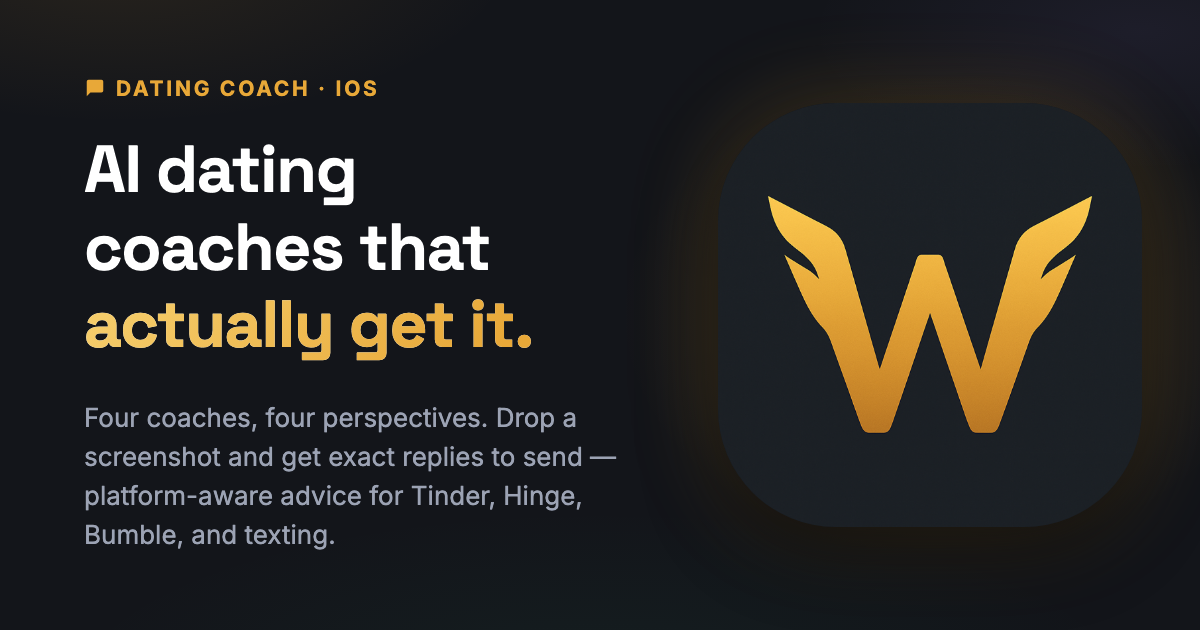
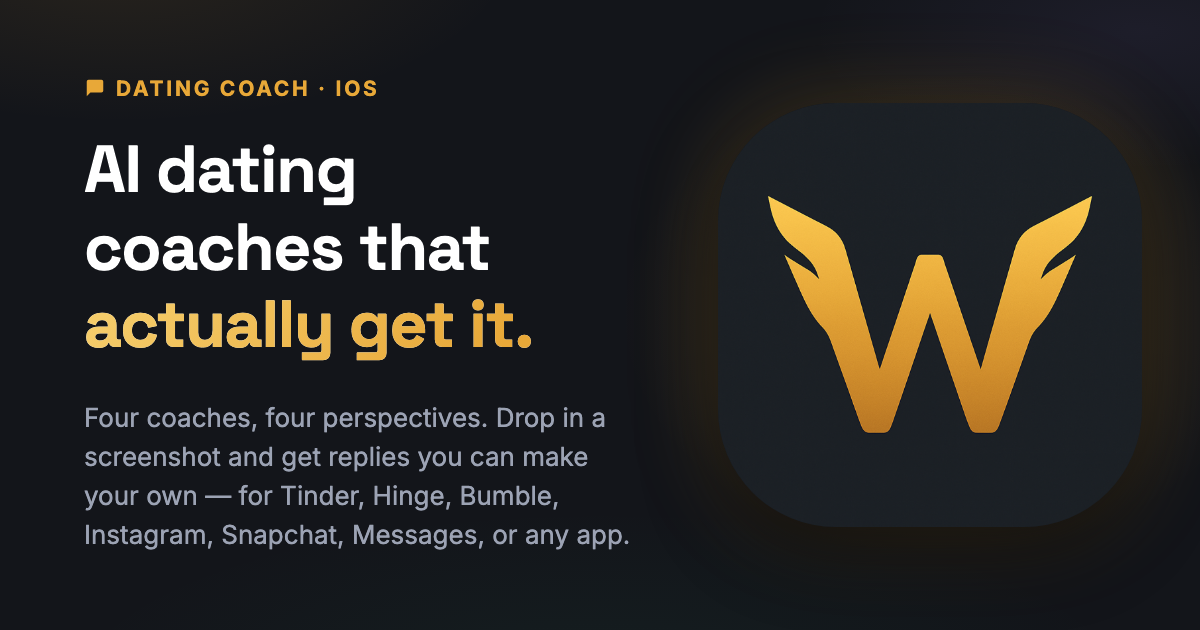
Wingmate page catches up with 1.4.2 and Bumble's new first-message rule
Bumble ended women-message-first on 2026-08-11 and retired Opening Moves;
its help centre now says each person gets one opening message within 72h.
The feature card and platform grid still said "she messages first".

1.4.2 coaches for Tinder, Hinge, Bumble, Instagram, Snapchat, Messages and
Any app (Platform.swift at 8aeed8e), so the lede, meta/JSON-LD descriptions,
platform grid, Opener Vault copy, studio card and og card name all seven.
The og card is re-rendered by tools/build_app_og.py and bumped to ?v=20260913a.

Copy that sold the retired Interest Level meter or read minds is rewritten
from the shipped coach descriptions (Coach.swift) and the live listing;
gendered marketing lines are de-gendered; the FAQ quotes the listing's
exact allowance (3 a day free, 60 with Plus) instead of "every feature is
free"; Auto coach is described as the listing describes it.

Changed region(s): [[0.0617, 0.6333, 0.5242, 0.8746]]

diff --git a/wingmate/index.html b/wingmate/index.html
@@ -5,8 +5,8 @@
   <meta name="viewport" content="width=device-width, initial-scale=1.0">
   <meta name="color-scheme" content="dark">
   <meta name="theme-color" content="#13151A">
-  <title>Wingmate — AI dating coach for Tinder, Hinge &amp; Bumble</title>
-  <meta name="description" content="Four AI dating coaches with real perspectives. Screenshot analysis and platform-aware coaching for Tinder, Hinge, Bumble, Instagram, and texting.">
+  <title>Wingmate — AI dating coach for Tinder, Hinge, Bumble &amp; more</title>
+  <meta name="description" content="Four AI dating coaches with real perspectives. Screenshot coaching that adapts to Tinder, Hinge, Bumble, Instagram, Snapchat, Messages, or any app.">
   <meta name="robots" content="index, follow">
   <link rel="canonical" href="https://hypersage.ai/wingmate/">
 
@@ -15,14 +15,14 @@
   <meta property="og:description" content="Four AI dating coaches with real perspectives. Screenshot analysis, platform-aware coaching, and personalized openers.">
   <meta property="og:url" content="https://hypersage.ai/wingmate/">
   <meta property="og:site_name" content="Wingmate">
-  <meta property="og:image" content="https://hypersage.ai/wingmate/og-image.png?v=20260821a">
+  <meta property="og:image" content="https://hypersage.ai/wingmate/og-image.png?v=20260913a">
   <meta property="og:image:width" content="1200">
   <meta property="og:image:height" content="630">
   <meta property="og:image:alt" content="Wingmate — AI dating coaches that actually get it">
   <meta name="twitter:card" content="summary_large_image">
   <meta name="twitter:title" content="Wingmate — AI Dating Coaches That Actually Get It">
   <meta name="twitter:description" content="Four AI dating coaches with real perspectives. Screenshot analysis, platform-aware coaching, and personalized openers.">
-  <meta name="twitter:image" content="https://hypersage.ai/wingmate/og-image.png?v=20260821a">
+  <meta name="twitter:image" content="https://hypersage.ai/wingmate/og-image.png?v=20260913a">
   <meta name="twitter:image:alt" content="Wingmate — AI dating coaches that actually get it">
 
   <link rel="icon" type="image/png" href="app-icon.png">
@@ -512,8 +512,8 @@
     }
 
     /* ===== PLATFORMS ===== */
-    .platform-cards { display: grid; grid-template-columns: repeat(5, minmax(0, 1fr)); gap: 16px; }
-    @media (max-width: 960px) { .platform-cards { grid-template-columns: repeat(3, minmax(0, 1fr)); } }
+    .platform-cards { display: grid; grid-template-columns: repeat(7, minmax(0, 1fr)); gap: 16px; }
+    @media (max-width: 1100px) { .platform-cards { grid-template-columns: repeat(4, minmax(0, 1fr)); } }
     @media (max-width: 640px) { .platform-cards { grid-template-columns: repeat(2, minmax(0, 1fr)); } }
     @media (max-width: 420px) { .platform-cards { grid-template-columns: 1fr; max-width: 300px; margin: 0 auto; } }
     .platform-card {
@@ -636,7 +636,7 @@
   "name": "Wingmate",
   "applicationCategory": "LifestyleApplication",
   "operatingSystem": "iOS",
-  "description": "Four AI dating coaches with real perspectives. Screenshot analysis, platform-aware coaching for Tinder, Hinge, Bumble, Instagram, and texting, and personalized openers crafted for her profile.",
+  "description": "Four AI dating coaches with real perspectives. Screenshot coaching that adapts to Tinder, Hinge, Bumble, Instagram, Snapchat, Messages, or any app, and openers written for the person you're talking to.",
   "url": "https://hypersage.ai/wingmate/",
   "installUrl": "https://apps.apple.com/app/id6792772729",
   "author": {
@@ -656,7 +656,7 @@
       "name": "Is Wingmate a chatbot I date?",
       "acceptedAnswer": {
         "@type": "Answer",
-        "text": "No — it's the opposite. Wingmate is a coach for your real dating life: you talk to Marcus, Jade, Eli, or Ava about actual conversations with actual people, and they hand you concrete replies to send. Nobody here plays your girlfriend; the whole point is what happens off the app."
+        "text": "No — it's the opposite. Wingmate is a coach for your real dating life: you talk to Marcus, Jade, Eli, or Ava about actual conversations with actual people, and they hand you concrete replies to send. Nobody here plays a romantic partner; the whole point is what happens off the app."
       }
     },
     {
@@ -688,7 +688,7 @@
       "name": "What's free, and what does Wingmate Plus add?",
       "acceptedAnswer": {
         "@type": "Answer",
-        "text": "Every feature is free — all four coaches, screenshot analysis, openers, connections, voice, and date planning. Wingmate Plus raises the daily allowances and locks nothing: a bigger allowance of coaching messages, and a bigger one on the separate allowance that read-aloud and coach memory run on. The exact numbers and prices are shown in the app."
+        "text": "Wingmate is free to use every day. The free tier covers 3 coaching messages a day — replies, screenshot coaching and generated openers share that allowance across coaches. Wingmate Plus raises it to 60 coaching messages a day. Read-aloud runs on a separate allowance. Prices are shown in the app."
       }
     },
     {
@@ -696,7 +696,7 @@
       "name": "Where do I get Wingmate?",
       "acceptedAnswer": {
         "@type": "Answer",
-        "text": "On the App Store, for iPhone running iOS 17 or later. Download Wingmate — it's free to start, with Wingmate Plus available as a subscription."
+        "text": "On the App Store, for iPhone running iOS 17 or later. Download Wingmate — it's free to download with 3 coaching messages a day, and Wingmate Plus is a subscription that raises it to 60."
       }
     }
   ]
@@ -742,7 +742,7 @@
         <div class="hero-text">
           <span class="eyebrow">Available now</span>
           <h1>AI dating coaches that <span class="grad-text">actually get it.</span></h1>
-          <p class="lede">Four coaches, four perspectives. Drop a screenshot and get exact replies to send — platform-aware advice for Tinder, Hinge, Bumble, Instagram, and plain old texting.</p>
+          <p class="lede">Four coaches, four perspectives. Drop in a screenshot and get replies you can make your own — coaching that adapts to Tinder, Hinge, Bumble, Instagram, Snapchat, Messages, or any app.</p>
           <div class="hero-cta">
             <a href="https://apps.apple.com/app/id6792772729" class="btn btn-primary" target="_blank" rel="noopener" aria-label="Download Wingmate on the App Store"><span>Download on the App Store</span><svg width="16" height="16" viewBox="0 0 24 24" fill="none" stroke="currentColor" stroke-width="2.5" stroke-linecap="round" stroke-linejoin="round" aria-hidden="true"><path d="M5 12h14M13 6l6 6-6 6"/></svg></a>
             <a href="#screens" class="btn btn-ghost"><span>See it in action</span></a>
@@ -760,7 +760,7 @@
             <div class="device">
               <div class="screen carousel" id="heroCarousel" aria-roledescription="carousel" aria-label="Wingmate app screenshots">
                 <img class="active" fetchpriority="high" width="828" height="1799" src="assets/screens/screen-chat.jpg?v=20260824a" alt="Wingmate chat — Marcus reads the Hinge thread with Emma and hands you a ready-to-send reply with a Warm interest-level read." data-caption="Tap-to-copy replies, not a chatbot">
-                <img width="828" height="1799" src="assets/screens/screen-openers.jpg?v=20260824a" alt="The opener vault — saved openers organized by every platform: Tinder, Hinge, Bumble, and Texting, each one tap-to-copy." data-caption="Your opener vault, always ready">
+                <img width="828" height="1799" src="assets/screens/screen-openers.jpg?v=20260824a" alt="The opener vault — saved openers organized by platform, each one tap-to-copy." data-caption="Your opener vault, always ready">
                 <img width="828" height="1799" src="assets/screens/screen-analyze.jpg?v=20260824a" alt="Drop a screenshot of the conversation and Ava breaks down the signals — who's driving the thread and what the reply gap really means." data-caption="Reads your screenshots">
                 <img width="828" height="1799" src="assets/screens/screen-coaches.jpg?v=20260824a" alt="Four coaches — Marcus, Jade, Eli, and Ava — each with a different perspective on your situation." data-caption="Four coaches, four perspectives">
                 <img width="828" height="1799" src="assets/screens/screen-connections.jpg?v=20260824a" alt="Connections — track everyone you're talking to, from matching to exclusive, with an archived section for the ones that ran their course." data-caption="Track every connection">
@@ -824,13 +824,13 @@
         <div class="feature-card">
           <div class="ic" aria-hidden="true"><svg viewBox="0 0 24 24" fill="none" stroke="currentColor" stroke-width="1.8" stroke-linecap="round" stroke-linejoin="round"><path d="M21 15a2 2 0 0 1-2 2H7l-4 4V5a2 2 0 0 1 2-2h14a2 2 0 0 1 2 2z"/><path d="M8 10h8"/><path d="M8 14h5"/></svg></div>
           <h3>Personalized Openers</h3>
-          <p>Tell your coach about her profile and get openers crafted for that person, on that platform. No copy-paste templates — every line is tailored.</p>
+          <p>Tell your coach about their profile and get openers written for that person, on that app. No copy-paste templates — every line starts from what you share.</p>
         </div>
 
         <div class="feature-card">
           <div class="ic" aria-hidden="true"><svg viewBox="0 0 24 24" fill="none" stroke="currentColor" stroke-width="1.8" stroke-linecap="round" stroke-linejoin="round"><path d="M12 2L2 7l10 5 10-5-10-5z"/><path d="M2 17l10 5 10-5"/><path d="M2 12l10 5 10-5"/></svg></div>
           <h3>Platform-Aware Coaching</h3>
-          <p>Tinder is short and punchy. Hinge is prompt-based. Bumble means she messages first. Instagram is a casual DM slide — story replies, not pickup lines. And once you have her number, texting is its own game. Your coach adjusts to how each one actually works.</p>
+          <p>Tinder is short and punchy. Hinge is prompt-based. On Bumble, anyone in a match can open — and you each get one opening message. Instagram is a casual DM slide — story replies, not pickup lines. Snapchat runs on Snaps, not just chat. Messages is its own game. Pick the app, or choose Any app, and your coach adapts to how it works.</p>
         </div>
 
         <div class="feature-card">
@@ -842,7 +842,7 @@
         <div class="feature-card">
           <div class="ic" aria-hidden="true"><svg viewBox="0 0 24 24" fill="none" stroke="currentColor" stroke-width="1.8" stroke-linecap="round" stroke-linejoin="round"><path d="M17 21v-2a4 4 0 0 0-4-4H5a4 4 0 0 0-4 4v2"/><circle cx="9" cy="7" r="4"/><path d="M12 19l2 2 4-4"/></svg></div>
           <h3>Personalized for Each Connection</h3>
-          <p>Track every woman you're talking to — from matching to exclusive. Your coach knows the history, the vibe, and exactly where things stand.</p>
+          <p>Keep a profile for everyone you're talking to — from matching to exclusive. Your coaches remember the history, so the advice fits where things are.</p>
         </div>
 
       </div>
@@ -880,7 +880,7 @@
             <p>Marcus reads the whole thread and hands you tap-to-copy messages — not vague tips. Every line comes with the reasoning, so you learn the <em>why</em> while you send the <em>what</em>.</p>
             <ul class="fr-points">
               <li><svg viewBox="0 0 24 24" fill="none" stroke="currentColor" stroke-width="2.4" stroke-linecap="round" stroke-linejoin="round"><path d="M20 6 9 17l-5-5"/></svg>Copy-and-send suggestions in one tap</li>
-              <li><svg viewBox="0 0 24 24" fill="none" stroke="currentColor" stroke-width="2.4" stroke-linecap="round" stroke-linejoin="round"><path d="M20 6 9 17l-5-5"/></svg>An interest-level read on every conversation</li>
+              <li><svg viewBox="0 0 24 24" fill="none" stroke="currentColor" stroke-width="2.4" stroke-linecap="round" stroke-linejoin="round"><path d="M20 6 9 17l-5-5"/></svg>The reasoning with every suggestion, not just a line</li>
               <li><svg viewBox="0 0 24 24" fill="none" stroke="currentColor" stroke-width="2.4" stroke-linecap="round" stroke-linejoin="round"><path d="M20 6 9 17l-5-5"/></svg>Cuts straight through the overthinking</li>
             </ul>
           </div>
@@ -890,12 +890,12 @@
         <div class="feature-row" style="--accent: var(--jade); --accent-glow: rgba(52,211,153,0.16);">
           <div class="fr-text">
             <span class="fr-eyebrow">Jade · The Female Perspective</span>
-            <h3>Hear it from the other side.</h3>
-            <p>Jade tells you what she'd actually think reading that message — why the compliment falls flat, and what lands instead. It's the honest second opinion your group chat can't give you.</p>
+            <h3>A second opinion on how it lands.</h3>
+            <p>Jade helps you consider how a message could land — why a compliment might fall flat, and what could read better. A thoughtful second opinion before you hit send.</p>
             <ul class="fr-points">
-              <li><svg viewBox="0 0 24 24" fill="none" stroke="currentColor" stroke-width="2.4" stroke-linecap="round" stroke-linejoin="round"><path d="M20 6 9 17l-5-5"/></svg>An honest read on how your message lands</li>
+              <li><svg viewBox="0 0 24 24" fill="none" stroke="currentColor" stroke-width="2.4" stroke-linecap="round" stroke-linejoin="round"><path d="M20 6 9 17l-5-5"/></svg>A thoughtful perspective on how your words land</li>
               <li><svg viewBox="0 0 24 24" fill="none" stroke="currentColor" stroke-width="2.4" stroke-linecap="round" stroke-linejoin="round"><path d="M20 6 9 17l-5-5"/></svg>Rewrites that still sound like you</li>
-              <li><svg viewBox="0 0 24 24" fill="none" stroke="currentColor" stroke-width="2.4" stroke-linecap="round" stroke-linejoin="round"><path d="M20 6 9 17l-5-5"/></svg>Genuine interest, without trying too hard</li>
+              <li><svg viewBox="0 0 24 24" fill="none" stroke="currentColor" stroke-width="2.4" stroke-linecap="round" stroke-linejoin="round"><path d="M20 6 9 17l-5-5"/></svg>Show interest in a way that feels natural</li>
             </ul>
           </div>
           <div class="fr-art"><div class="device"><div class="screen"><img class="shot-img" width="828" height="1799" src="assets/screens/screen-jade.jpg?v=20260824a" data-dark="assets/screens/screen-jade.jpg?v=20260824a" data-light="assets/screens/screen-jade-light.jpg?v=20260824a" alt="Jade explains why a looks-first compliment falls flat and rewrites it" loading="lazy"></div></div></div>
@@ -904,12 +904,12 @@
         <div class="feature-row" style="--accent: var(--eli); --accent-glow: rgba(56,189,248,0.16);">
           <div class="fr-text">
             <span class="fr-eyebrow">Eli · Chill &amp; Funny</span>
-            <h3>Make her laugh first.</h3>
-            <p>Eli riffs witty openers straight off her bio and keeps the banter loose. And when she goes quiet, he'll talk you off the double-text ledge instead of feeding the spiral.</p>
+            <h3>Keep it light.</h3>
+            <p>Eli riffs witty openers off a profile and keeps the banter loose. And when a thread goes quiet, he'll talk you off the double-text ledge instead of feeding the spiral.</p>
             <ul class="fr-points">
               <li><svg viewBox="0 0 24 24" fill="none" stroke="currentColor" stroke-width="2.4" stroke-linecap="round" stroke-linejoin="round"><path d="M20 6 9 17l-5-5"/></svg>Playful openers that never feel cheesy</li>
               <li><svg viewBox="0 0 24 24" fill="none" stroke="currentColor" stroke-width="2.4" stroke-linecap="round" stroke-linejoin="round"><path d="M20 6 9 17l-5-5"/></svg>Keeps the conversation fun and natural</li>
-              <li><svg viewBox="0 0 24 24" fill="none" stroke="currentColor" stroke-width="2.4" stroke-linecap="round" stroke-linejoin="round"><path d="M20 6 9 17l-5-5"/></svg>No more anxious double-texting</li>
+              <li><svg viewBox="0 0 24 24" fill="none" stroke="currentColor" stroke-width="2.4" stroke-linecap="round" stroke-linejoin="round"><path d="M20 6 9 17l-5-5"/></svg>A calm voice before you double-text</li>
             </ul>
           </div>
           <div class="fr-art"><div class="device"><div class="screen"><img class="shot-img" width="828" height="1799" src="assets/screens/screen-eli.jpg?v=20260824a" data-dark="assets/screens/screen-eli.jpg?v=20260824a" data-light="assets/screens/screen-eli-light.jpg?v=20260824a" alt="Eli gives playful openers off her bio and advises against double-texting" loading="lazy"></div></div></div>
@@ -919,11 +919,11 @@
           <div class="fr-text">
             <span class="fr-eyebrow">Ava · Strategic &amp; Analytical</span>
             <h3>Screenshot in. Strategy out.</h3>
-            <p>Drop a screenshot and Ava breaks down the signals point by point — response time, who's driving the thread, and the exact move that turns it into a date.</p>
+            <p>Drop a screenshot and Ava breaks the exchange down point by point — sorting what was said from what you're guessing, and helping you choose a practical next step.</p>
             <ul class="fr-points">
-              <li><svg viewBox="0 0 24 24" fill="none" stroke="currentColor" stroke-width="2.4" stroke-linecap="round" stroke-linejoin="round"><path d="M20 6 9 17l-5-5"/></svg>Reads the subtext, not just the words</li>
-              <li><svg viewBox="0 0 24 24" fill="none" stroke="currentColor" stroke-width="2.4" stroke-linecap="round" stroke-linejoin="round"><path d="M20 6 9 17l-5-5"/></svg>An interest level backed by real signals</li>
-              <li><svg viewBox="0 0 24 24" fill="none" stroke="currentColor" stroke-width="2.4" stroke-linecap="round" stroke-linejoin="round"><path d="M20 6 9 17l-5-5"/></svg>A calibrated next message, every time</li>
+              <li><svg viewBox="0 0 24 24" fill="none" stroke="currentColor" stroke-width="2.4" stroke-linecap="round" stroke-linejoin="round"><path d="M20 6 9 17l-5-5"/></svg>Separates what was said from what you're guessing</li>
+              <li><svg viewBox="0 0 24 24" fill="none" stroke="currentColor" stroke-width="2.4" stroke-linecap="round" stroke-linejoin="round"><path d="M20 6 9 17l-5-5"/></svg>A practical next step, not a verdict</li>
+              <li><svg viewBox="0 0 24 24" fill="none" stroke="currentColor" stroke-width="2.4" stroke-linecap="round" stroke-linejoin="round"><path d="M20 6 9 17l-5-5"/></svg>Suggested replies you can make your own</li>
             </ul>
           </div>
           <div class="fr-art"><div class="device"><div class="screen"><img class="shot-img" width="828" height="1799" src="assets/screens/screen-ava.jpg?v=20260824a" data-dark="assets/screens/screen-ava.jpg?v=20260824a" data-light="assets/screens/screen-ava-light.jpg?v=20260824a" alt="Ava analyzes a shared screenshot — interest level, next moves, and a calibrated line to send" loading="lazy"></div></div></div>
@@ -947,10 +947,10 @@
           <div class="fr-text">
             <span class="fr-eyebrow">Opener Vault</span>
             <h3>Your best lines, saved for later.</h3>
-            <p>Every opener you generate is filed by platform and by person, ready to reuse. Build a library of what actually works for you — no more staring at a blank message box.</p>
+            <p>Every opener you generate is filed by platform and by person, ready to reuse. Build a library of lines that sound like you — no more staring at a blank message box.</p>
             <ul class="fr-points">
-              <li><svg viewBox="0 0 24 24" fill="none" stroke="currentColor" stroke-width="2.4" stroke-linecap="round" stroke-linejoin="round"><path d="M20 6 9 17l-5-5"/></svg>Organized by platform — Tinder, Hinge, Bumble, Instagram, and Texting</li>
-              <li><svg viewBox="0 0 24 24" fill="none" stroke="currentColor" stroke-width="2.4" stroke-linecap="round" stroke-linejoin="round"><path d="M20 6 9 17l-5-5"/></svg>Personalized to her actual profile</li>
+              <li><svg viewBox="0 0 24 24" fill="none" stroke="currentColor" stroke-width="2.4" stroke-linecap="round" stroke-linejoin="round"><path d="M20 6 9 17l-5-5"/></svg>Written for the app you pick — Tinder, Hinge, Bumble, Instagram, Snapchat, Messages, or any app</li>
+              <li><svg viewBox="0 0 24 24" fill="none" stroke="currentColor" stroke-width="2.4" stroke-linecap="round" stroke-linejoin="round"><path d="M20 6 9 17l-5-5"/></svg>Personalized to the person's profile</li>
               <li><svg viewBox="0 0 24 24" fill="none" stroke="currentColor" stroke-width="2.4" stroke-linecap="round" stroke-linejoin="round"><path d="M20 6 9 17l-5-5"/></svg>One-tap copy the moment you match</li>
             </ul>
           </div>
@@ -966,7 +966,7 @@
       <div class="section-head center">
         <span class="eyebrow">Connections</span>
         <h2>Your dating life, <span class="grad-text">organized.</span></h2>
-        <p>Every person you're talking to gets a living profile — platform, stage, her dating-profile screenshots, your private notes, and what your coach has learned. Tap "Get coaching" and the advice already knows the whole story.</p>
+        <p>Every person you're talking to gets a living profile — platform, stage, their dating-profile screenshots, your private notes, and what your coach has learned. Tap "Get coaching" and the advice already knows the whole story.</p>
       </div>
 
       
@@ -995,7 +995,7 @@
 
         <div class="theme-card">
           <div class="device">
-            <div class="screen"><img class="shot-img" width="828" height="1799" src="assets/screens/screen-detail.jpg?v=20260824a" data-dark="assets/screens/screen-detail.jpg?v=20260824a" data-light="assets/screens/screen-profile.jpg?v=20260824a" alt="A connection profile — photo gallery of her dating-profile screenshots, a stage tracker from matching to exclusive, and quick context" loading="lazy"></div>
+            <div class="screen"><img class="shot-img" width="828" height="1799" src="assets/screens/screen-detail.jpg?v=20260824a" data-dark="assets/screens/screen-detail.jpg?v=20260824a" data-light="assets/screens/screen-profile.jpg?v=20260824a" alt="A connection profile — photo gallery of their dating-profile screenshots, a stage tracker from matching to exclusive, and quick context" loading="lazy"></div>
           </div>
           <div class="theme-badge">Profile &amp; photo gallery</div>
         </div>
@@ -1071,7 +1071,7 @@
       <div class="section-head center">
         <span class="eyebrow">The team</span>
         <h2>Meet your <span class="grad-text">coaches.</span></h2>
-        <p>Four distinct personalities, each with their own approach. Pick the one that fits your moment — or get a second opinion from another.</p>
+        <p>Four distinct personalities, each with their own approach. Pick the one that fits your moment, get a second opinion from another — or turn on Auto, which chooses a coach for each new request and keeps that coach for follow-ups. Every reply shows who answered.</p>
       </div>
       <div class="coaches-grid">
 
@@ -1086,7 +1086,7 @@
           <img class="portrait" width="640" height="640" src="assets/coaches/coach-jade.png" alt="Jade" loading="lazy">
           <div class="name">Jade</div>
           <div class="role">The Female Perspective</div>
-          <p class="desc">Your insider guide. Jade tells you what she'd actually think reading that message — the signals you're sending and how to show genuine interest.</p>
+          <p class="desc">Your candid, thoughtful guide. Jade helps you consider how a message could land, understand the tone of an exchange, and show interest in a way that feels natural.</p>
         </div>
 
         <div class="coach-card" style="--accent: var(--eli);">
@@ -1100,7 +1100,7 @@
           <img class="portrait" width="640" height="640" src="assets/coaches/coach-ava.png" alt="Ava" loading="lazy">
           <div class="name">Ava</div>
           <div class="role">Strategic & Analytical</div>
-          <p class="desc">Your tactical advisor. Reads between the lines, analyzes response patterns, and helps you play the long game. Dating as a skill you master.</p>
+          <p class="desc">Your clear-thinking coach. Ava helps you sort what was said from what you're guessing, understand the conversation, and choose a practical next step.</p>
         </div>
 
       </div>
@@ -1118,7 +1118,7 @@
         <div class="step">
           <div class="num"></div>
           <h3>Pick your coach</h3>
-          <p>Choose Marcus, Jade, Eli, or Ava. Each brings a different perspective — switch between them anytime for a second opinion.</p>
+          <p>Choose Marcus, Jade, Eli, or Ava — or let Auto choose for you. Each brings a different perspective; switch anytime for a second opinion.</p>
         </div>
         <div class="step">
           <div class="num"></div>
@@ -1156,7 +1156,7 @@
         <div class="platform-card">
           <span class="pc-dot" style="--pc-hue: #E8A838;" aria-hidden="true"></span>
           <span class="pc-name">Bumble</span>
-          <span class="pc-rule">She messages first</span>
+          <span class="pc-rule">Anyone can open — one message each</span>
         </div>
         <div class="platform-card">
           <span class="pc-dot" style="--pc-hue: #B57BE8;" aria-hidden="true"></span>
@@ -1164,9 +1164,19 @@
           <span class="pc-rule">Story replies, not pickup lines</span>
         </div>
         <div class="platform-card">
+          <span class="pc-dot" style="--pc-hue: #38BDF8;" aria-hidden="true"></span>
+          <span class="pc-name">Snapchat</span>
+          <span class="pc-rule">Snaps, not just chat</span>
+        </div>
+        <div class="platform-card">
           <span class="pc-dot" style="--pc-hue: #4FC77F;" aria-hidden="true"></span>
-          <span class="pc-name">Texting</span>
+          <span class="pc-name">Messages</span>
           <span class="pc-rule">Its own game</span>
+        </div>
+        <div class="platform-card">
+          <span class="pc-dot" style="--pc-hue: #9CA3B4;" aria-hidden="true"></span>
+          <span class="pc-name">Any app</span>
+          <span class="pc-rule">No assumed app rules</span>
         </div>
       </div>
     </div>
@@ -1182,7 +1192,7 @@
       <div class="faq-list">
         <details class="faq">
           <summary>Is Wingmate a chatbot I date?</summary>
-          <p>No — it's the opposite. Wingmate is a coach for your real dating life: you talk to Marcus, Jade, Eli, or Ava about actual conversations with actual people, and they hand you concrete replies to send. Nobody here plays your girlfriend; the whole point is what happens off the app.</p>
+          <p>No — it's the opposite. Wingmate is a coach for your real dating life: you talk to Marcus, Jade, Eli, or Ava about actual conversations with actual people, and they hand you concrete replies to send. Nobody here plays a romantic partner; the whole point is what happens off the app.</p>
         </details>
         <details class="faq">
           <summary>Do I have to connect my dating apps?</summary>
@@ -1198,11 +1208,11 @@
         </details>
         <details class="faq">
           <summary>What's free, and what does Wingmate Plus add?</summary>
-          <p>Every feature is free — all four coaches, screenshot analysis, openers, connections, voice, and date planning. Wingmate Plus raises the daily allowances and locks nothing: a bigger allowance of coaching messages, and a bigger one on the separate allowance that read-aloud and coach memory run on. The exact numbers and prices are shown in the app.</p>
+          <p>Wingmate is free to use every day. The free tier covers 3 coaching messages a day — replies, screenshot coaching and generated openers share that allowance across coaches. Wingmate Plus raises it to 60 coaching messages a day. Read-aloud runs on a separate allowance. Prices are shown in the app.</p>
         </details>
         <details class="faq">
           <summary>Where do I get Wingmate?</summary>
-          <p>On the App Store, for iPhone running iOS 17 or later. <a href="https://apps.apple.com/app/id6792772729" target="_blank" rel="noopener">Download Wingmate</a> — it's free to start, with Wingmate Plus available as a subscription.</p>
+          <p>On the App Store, for iPhone running iOS 17 or later. <a href="https://apps.apple.com/app/id6792772729" target="_blank" rel="noopener">Download Wingmate</a> — it's free to download with 3 coaching messages a day, and Wingmate Plus is a subscription that raises it to 60.</p>
         </details>
       </div>
     </div>
@@ -1212,7 +1222,7 @@
     <div class="container">
       <span class="eyebrow">Available now</span>
       <h2 style="margin-top: 18px;">Your next conversation<br>starts <span class="grad-text">here.</span></h2>
-      <p>Wingmate is on the App Store for iPhone. Four coaches, real advice, and conversations that actually go somewhere.</p>
+      <p>Wingmate is on the App Store for iPhone. Four coaches, one shared memory, and replies you can make your own.</p>
       <a href="https://apps.apple.com/app/id6792772729" class="btn btn-primary" target="_blank" rel="noopener" aria-label="Download Wingmate on the App Store"><span>Download on the App Store</span><svg width="16" height="16" viewBox="0 0 24 24" fill="none" stroke="currentColor" stroke-width="2.5" stroke-linecap="round" stroke-linejoin="round" aria-hidden="true"><path d="M5 12h14M13 6l6 6-6 6"/></svg></a>
     </div>
   </section>

diff --git a/index.html b/index.html
@@ -1040,7 +1040,7 @@
           <p class="desc">Screenshot a conversation and get replies you can actually send. Four coaches work from the conversation you share, and all four share one memory of the person you&rsquo;re talking about.</p>
           <ul role="list">
             <li>Connection-specific context and screenshot analysis</li>
-            <li>Guidance for Tinder, Hinge, Bumble, Instagram, and texting</li>
+            <li>Guidance for Tinder, Hinge, Bumble, Instagram, Snapchat, Messages, or any app</li>
           </ul>
           <div class="foot">
             <a class="app-store" aria-label="Download on the App Store: Wingmate" href="https://apps.apple.com/app/id6792772729" target="_blank" rel="noopener"><img src="badges/download-on-the-app-store.svg" alt="Download on the App Store" width="132" height="44" loading="lazy"></a>

diff --git a/tools/build_app_og.py b/tools/build_app_og.py
@@ -321,7 +321,7 @@ CARDS = {
         # "coming". Follows the fleet's "<category> · iOS" kicker convention.
         "kicker": "Dating coach · iOS",
         "h1": 'AI dating<br>coaches that<br><em>actually get&nbsp;it.</em>',
-        "sub": "Four coaches, four perspectives. Drop a screenshot and get exact replies to send — platform-aware advice for Tinder, Hinge, Bumble, and texting.",
+        "sub": "Four coaches, four perspectives. Drop in a screenshot and get replies you can make your own — for Tinder, Hinge, Bumble, Instagram, Snapchat, Messages, or any app.",
     },
     "waddleton": {
         "art": "waddleton-icon.png",
